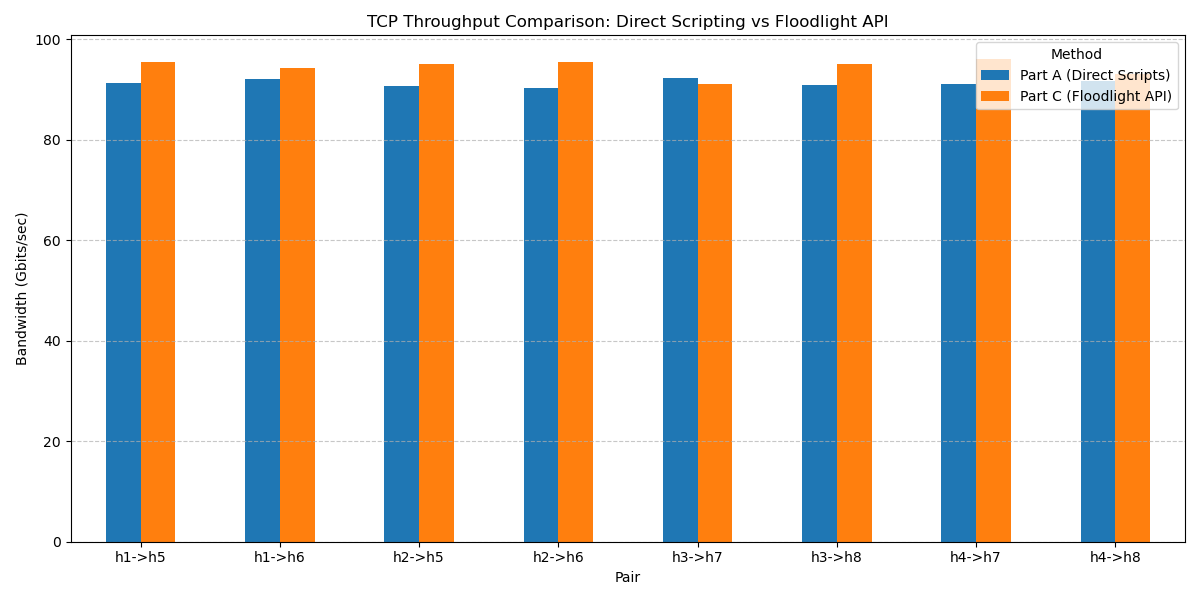
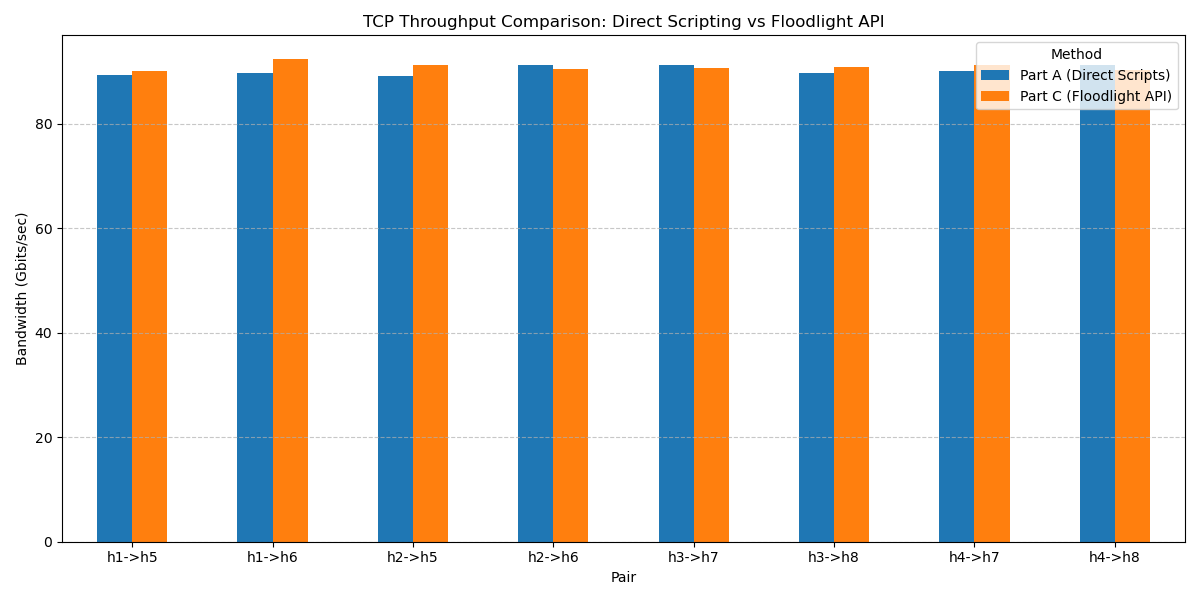
After Test Completion

diff --git a/Automated_Analysis1.py b/Automated_Analysis1.py
@@ -1,0 +1,166 @@
+import os
+import re
+import csv
+import time
+import subprocess
+import pandas as pd
+import matplotlib
+matplotlib.use('Agg') # Add this line before importing pyplot!
+import matplotlib.pyplot as plt
+import numpy as np
+from mininet.net import Mininet
+from mininet.node import RemoteController, OVSSwitch
+from Topology import Mytopo
+
+PAIRS_TO_TEST = [
+    ('h1', 'h5'), ('h1', 'h6'),
+    ('h2', 'h5'), ('h2', 'h6'),
+    ('h3', 'h7'), ('h3', 'h8'),
+    ('h4', 'h7'), ('h4', 'h8')
+]
+
+def clean_environment():
+    subprocess.call(['sudo', 'mn', '-c'], stdout=subprocess.DEVNULL, stderr=subprocess.DEVNULL)
+    # Kill any lingering floodlight java processes just in case
+    subprocess.call(['sudo', 'pkill', '-f', 'floodlight.jar'], stdout=subprocess.DEVNULL, stderr=subprocess.DEVNULL)
+    time.sleep(1)
+
+def run_network_tests(net, method_name):
+    print(f"\n[===== Testing Phase: {method_name} =====]")
+    results = []
+    for src_name, dst_name in PAIRS_TO_TEST:
+        src = net.get(src_name)
+        dst = net.get(dst_name)
+        dst_ip = dst.IP()
+        
+        print(f"[*] Extracting metrics: {src_name} -> {dst_name} ({dst_ip})")
+        
+        # Latency
+        ping_out = src.cmd(f'ping -c 3 {dst_ip}')
+        latency = 0.0
+        rtt_match = re.search(r'rtt min/avg/max/mdev = [\d\.]+/(.*?)/[\d\.]+/', ping_out)
+        if rtt_match:
+            latency = float(rtt_match.group(1))
+
+        # Bandwidth
+        dst.cmd('iperf -s &')
+        time.sleep(1)
+        iperf_out = src.cmd(f'iperf -c {dst_ip} -t 5')
+        bandwidth = 0.0
+        bw_match = re.search(r'(\d+(\.\d+)?) (Gbits/sec|Mbits/sec)', iperf_out)
+        if bw_match:
+            val = float(bw_match.group(1))
+            unit = bw_match.group(3)
+            bandwidth = val if unit == 'Gbits/sec' else val / 1000.0
+
+        dst.cmd('kill %iperf')
+
+        results.append({
+            'Method': method_name,
+            'Source': src_name,
+            'Destination': dst_name,
+            'Pair': f"{src_name}->{dst_name}",
+            'Latency_ms': latency,
+            'Bandwidth_Gbps': bandwidth
+        })
+    return results
+
+def main():
+    if os.geteuid() != 0:
+        print("ERROR: Script must run as root. (sudo python3 Automated_Analysis.py)")
+        return
+
+    all_results = []
+    clean_environment()
+
+    # ==========================================
+    # TEST 1: Direct Rules (Part A)
+    # ==========================================
+    print("[*] Booting Mininet for direct scripting...")
+    topo = Mytopo()
+    
+    # controller=None forces the switches to run in standalone mode 
+    # OVSSwitch protocols='OpenFlow13' forces stable OF1.3 handshakes
+    net1 = Mininet(topo=topo, controller=None, switch=lambda name, **kwargs: OVSSwitch(name, protocols='OpenFlow10', **kwargs))
+    net1.start()
+    
+    print("[*] Pushing Direct Rules via AddRules.sh...")
+    subprocess.call(['sudo', './AddRules.sh'], stdout=subprocess.DEVNULL)
+    time.sleep(2)
+    
+    all_results.extend(run_network_tests(net1, 'Part A (Direct Scripts)'))
+    
+    print("[*] Tearing down Direct Rules network...")
+    net1.stop()
+    clean_environment()
+
+    # ==========================================
+    # TEST 2: Floodlight (Part C)
+    # ==========================================
+    print("\n[*] Booting Floodlight Java Controller in background...")
+    # Removed DEVNULL so we can see Java errors if it crashes!
+    # We tell it to run from inside /root/floodlight/ so the relative paths work!
+    floodlight_proc = subprocess.Popen(['java', '-jar', 'target/floodlight.jar'], cwd='/root/floodlight')
+    time.sleep(20) # Increased to 20 seconds to give Java enough time to wake up
+    
+    print("[*] Booting Mininet for Floodlight connection...")
+    # Forced OpenFlow 1.3 here as well to prevent Floodlight DecoderExceptions
+    net2 = Mininet(topo=topo, controller=lambda name: RemoteController(name, ip='127.0.0.1', port=6653), switch=lambda name, **kwargs: OVSSwitch(name, protocols='OpenFlow10', **kwargs))
+    net2.start()
+    time.sleep(5) # Wait for switch handshakes
+    
+    print("[*] Pushing Rules via REST API (AddRulesFloodlight.py)...")
+    subprocess.call(['python3', 'AddRulesFloodlight.py'], stdout=subprocess.DEVNULL)
+    time.sleep(3) # Wait for REST static flows to manifest
+    
+    all_results.extend(run_network_tests(net2, 'Part C (Floodlight API)'))
+    
+    print("[*] Tearing down Floodlight network...")
+    net2.stop()
+    floodlight_proc.terminate()
+    clean_environment()
+
+    # ==========================================
+    # REPORT GENERATION
+    # ==========================================
+    print("\n[*] Data collection complete! Compiling comprehensive comparative reports...")
+    
+    os.makedirs('SUBMISSION_READY/Performance_Data', exist_ok=True)
+    os.makedirs('SUBMISSION_READY/Analysis_Results', exist_ok=True)
+    
+    # 1. Output CSV
+    csv_file = 'SUBMISSION_READY/Performance_Data/Aggregated_Results.csv'
+    with open(csv_file, 'w', newline='') as f:
+        writer = csv.DictWriter(f, fieldnames=all_results[0].keys())
+        writer.writeheader()
+        writer.writerows(all_results)
+    
+    # 2. Comparative Matplotlib Graphs
+    df = pd.DataFrame(all_results)
+    
+    # Group by Pair and Method
+    pivot_bw = df.pivot(index='Pair', columns='Method', values='Bandwidth_Gbps')
+    pivot_lat = df.pivot(index='Pair', columns='Method', values='Latency_ms')
+    
+    # Bandwidth Plot
+    ax = pivot_bw.plot(kind='bar', figsize=(12, 6), color=['#1f77b4', '#ff7f0e'])
+    plt.title('TCP Throughput Comparison: Direct Scripting vs Floodlight API')
+    plt.ylabel('Bandwidth (Gbits/sec)')
+    plt.xticks(rotation=0)
+    plt.grid(axis='y', linestyle='--', alpha=0.7)
+    plt.tight_layout()
+    plt.savefig('SUBMISSION_READY/Analysis_Results/Bandwidth_Comparison.png')
+
+    # Latency Plot
+    ax2 = pivot_lat.plot(kind='bar', figsize=(12, 6), color=['#2ca02c', '#d62728'])
+    plt.title('ICMP RTT Latency Comparison: Direct Scripting vs Floodlight API')
+    plt.ylabel('Latency (ms)')
+    plt.xticks(rotation=0)
+    plt.grid(axis='y', linestyle='--', alpha=0.7)
+    plt.tight_layout()
+    plt.savefig('SUBMISSION_READY/Analysis_Results/Latency_Comparison.png')
+    
+    print("[SUCCESS] Everything successfully compiled!")
+
+if __name__ == '__main__':
+    main()

diff --git a/AddRulesFloodlight.py b/AddRulesFloodlight.py
@@ -14,7 +14,7 @@ def push_flow(switch_dpid, priority, eth_type, match_fields, actions):
         "priority": str(priority),
         "eth_type": eth_type,
         "active": "true",
-        "instruction_apply_actions": actions # OpenFlow 1.3 usually, or just "actions" for OpenFlow 1.0
+        "actions": actions # OpenFlow 1.3 usually, or just "actions" for OpenFlow 1.0
     }
     
     # Adding OpenFlow 1.3 action compatibility just in case
